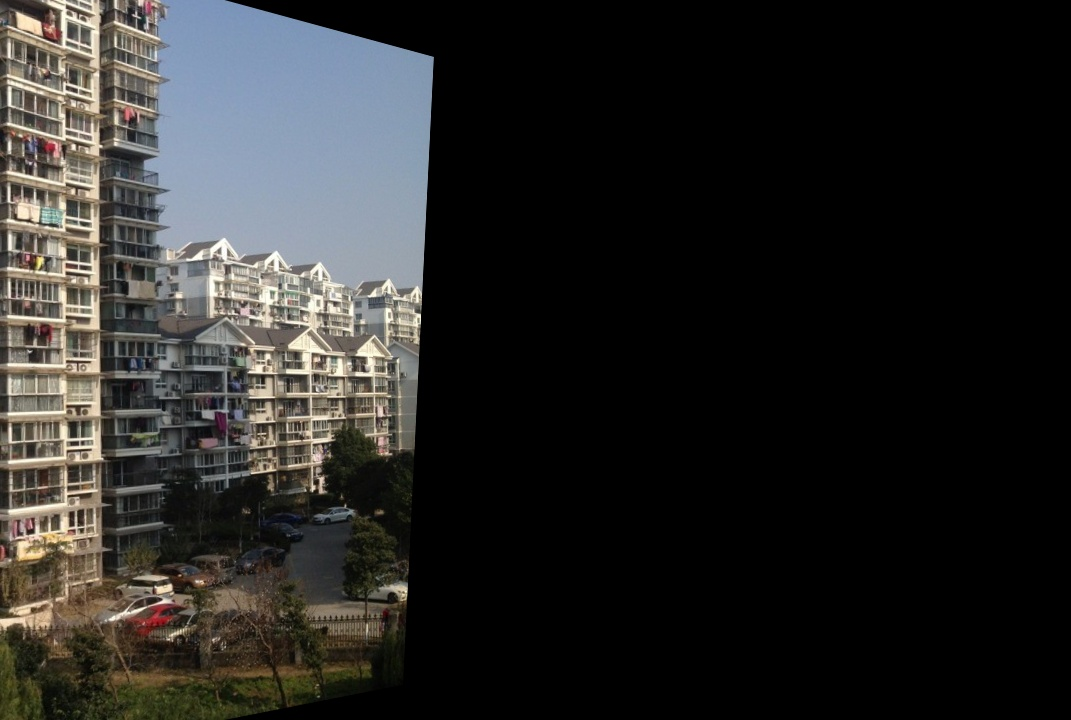
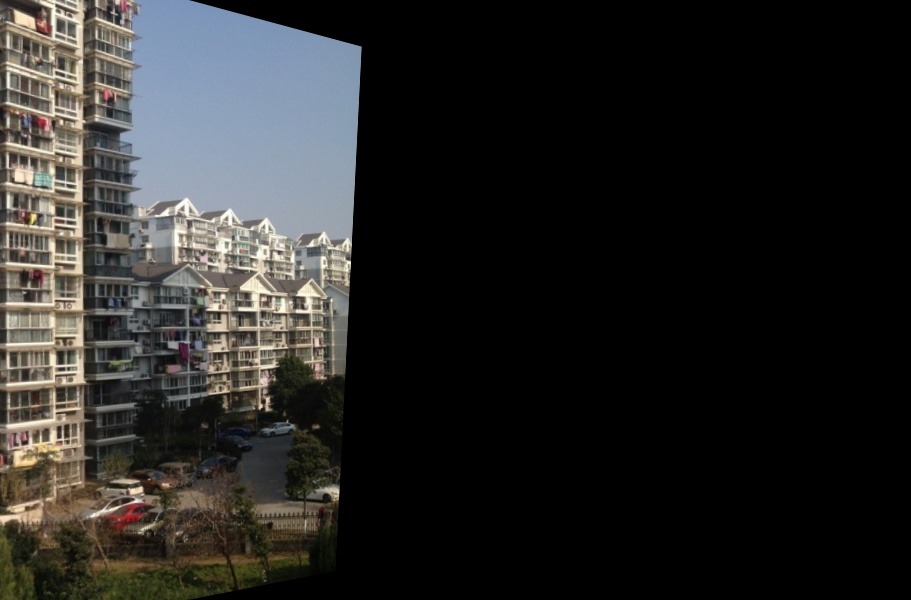
修复了关键点太少导致的错误

diff --git a/ImageSynthesis/main.py b/ImageSynthesis/main.py
@@ -92,6 +92,8 @@ def draw_key_point(img1, img2, kp_pairs):
 def main():
     img1 = cv2.imread(config.UPLOAD_IMAGE_FOLDER + "/origin.png", cv2.IMREAD_COLOR)
     img2 = cv2.imread(config.UPLOAD_IMAGE_FOLDER + "/new.png", cv2.IMREAD_COLOR)
+    #img1 = cv2.imread("1.jpg", cv2.IMREAD_COLOR)
+    #img2 = cv2.imread("2.jpg", cv2.IMREAD_COLOR)
 
     if len(img1) > len(img1[0]):
         img1 = rotate(img1)
@@ -119,7 +121,7 @@ def main():
     good_sorted = sorted(good, key=lambda x: x[1])
     good = [x[0] for x in good_sorted]
     kp_pairs = []
-    for i in range(40):
+    for i in range(min(40, len(good))):
         kp_pairs.append([kp1[good[i].queryIdx].pt, kp2[good[i].trainIdx].pt])
 
     img = draw_key_point(img1, img2, kp_pairs)
